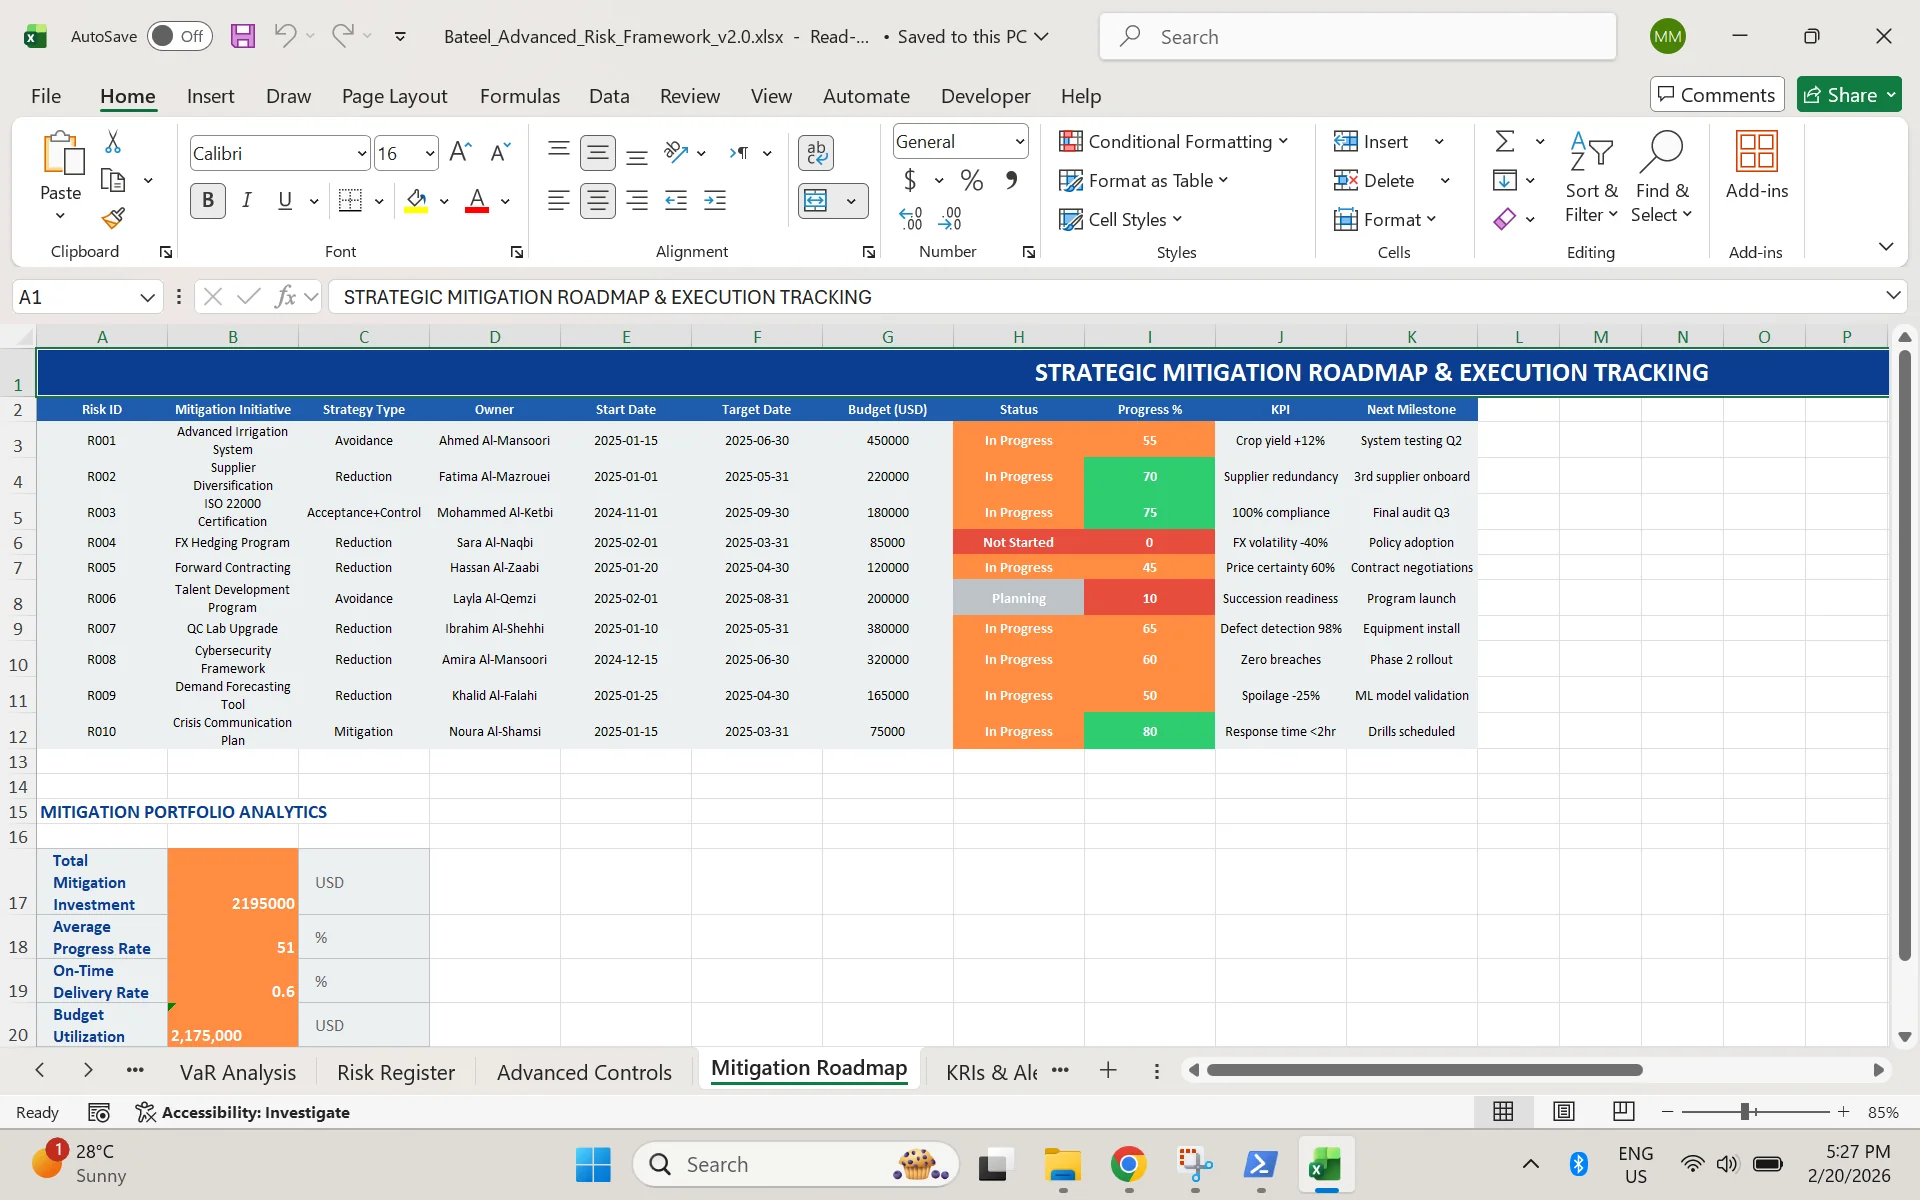
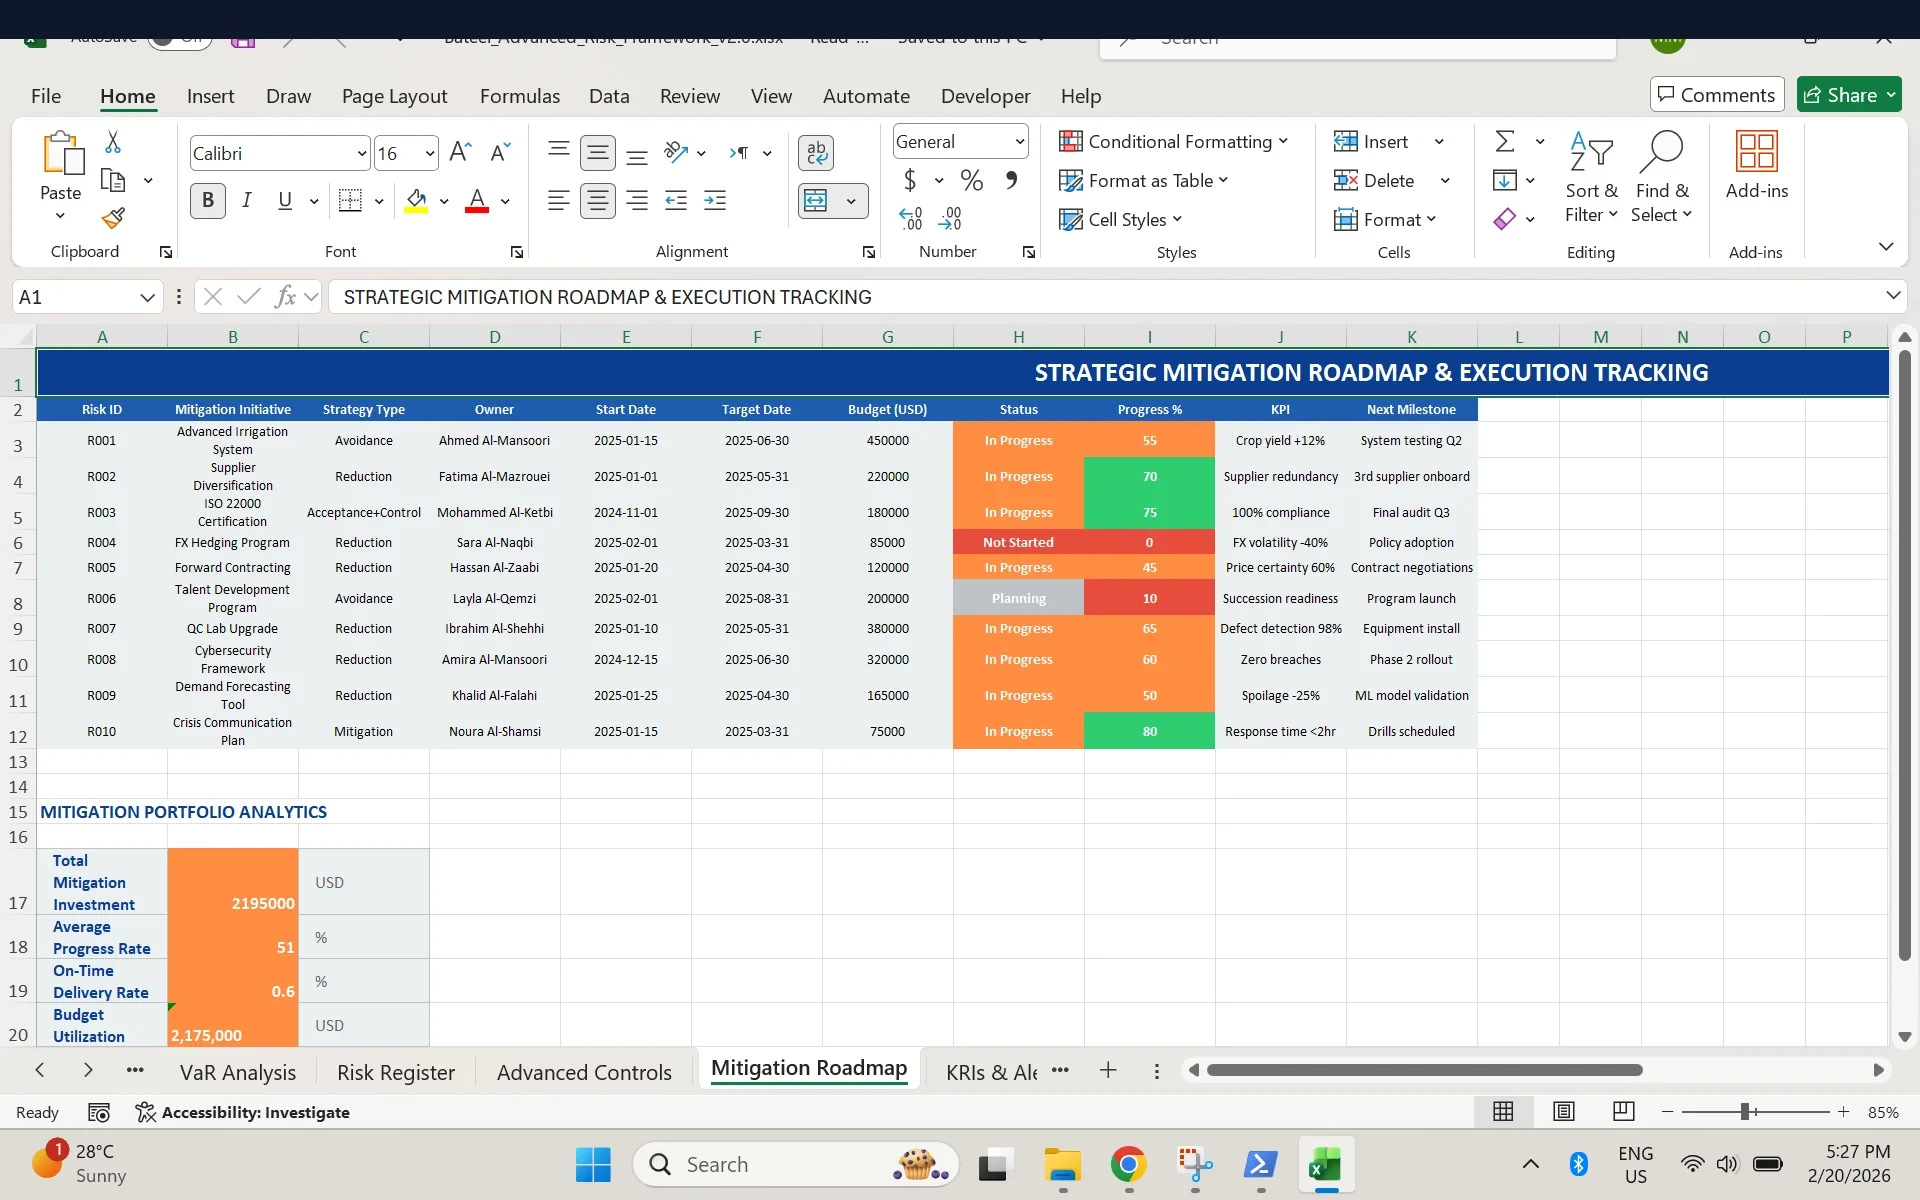
Remove client names from project screenshots
- Paint over Excel title bars in bateel-audit-tracker and food-safety-risk images
- Remove fraud-detection screenshot (client name pervasive throughout dataset)
- Rename bateel-audit-tracker folder to enterprise-audit-tracker
- Update image paths in App.jsx accordingly

Changed region(s): [[0.0, 0.0, 1.0, 0.0308]]

diff --git a/src/App.jsx b/src/App.jsx
@@ -122,7 +122,7 @@ const App = () => {
       category: 'Fraud Forensics',
       impact: '82% Reduction in Fraud Loss (SAR 5.1M to <900K)',
       techStack: ['Python', 'scikit-learn', 'Pandas', 'Excel Automation'],
-      image: '/portfolio_my/images/projects/fraud-detection/fraud-dashboard.webp',
+      image: null,
       features: [
         'ML anomaly detection with 87.3% accuracy using Isolation Forest',
         'Manager discount rate analysis with automated risk scoring',
@@ -177,7 +177,7 @@ const App = () => {
       category: 'Audit Transformation',
       impact: '9 integrated worksheets with full automation',
       techStack: ['Python', 'openpyxl', 'python-pptx'],
-      image: '/portfolio_my/images/projects/bateel-audit-tracker/audit-dashboard.webp',
+      image: '/portfolio_my/images/projects/enterprise-audit-tracker/audit-dashboard.webp',
       features: [
         'Director dashboard with real-time operational KPIs',
         'Multi-entity audit planning and scheduling',
